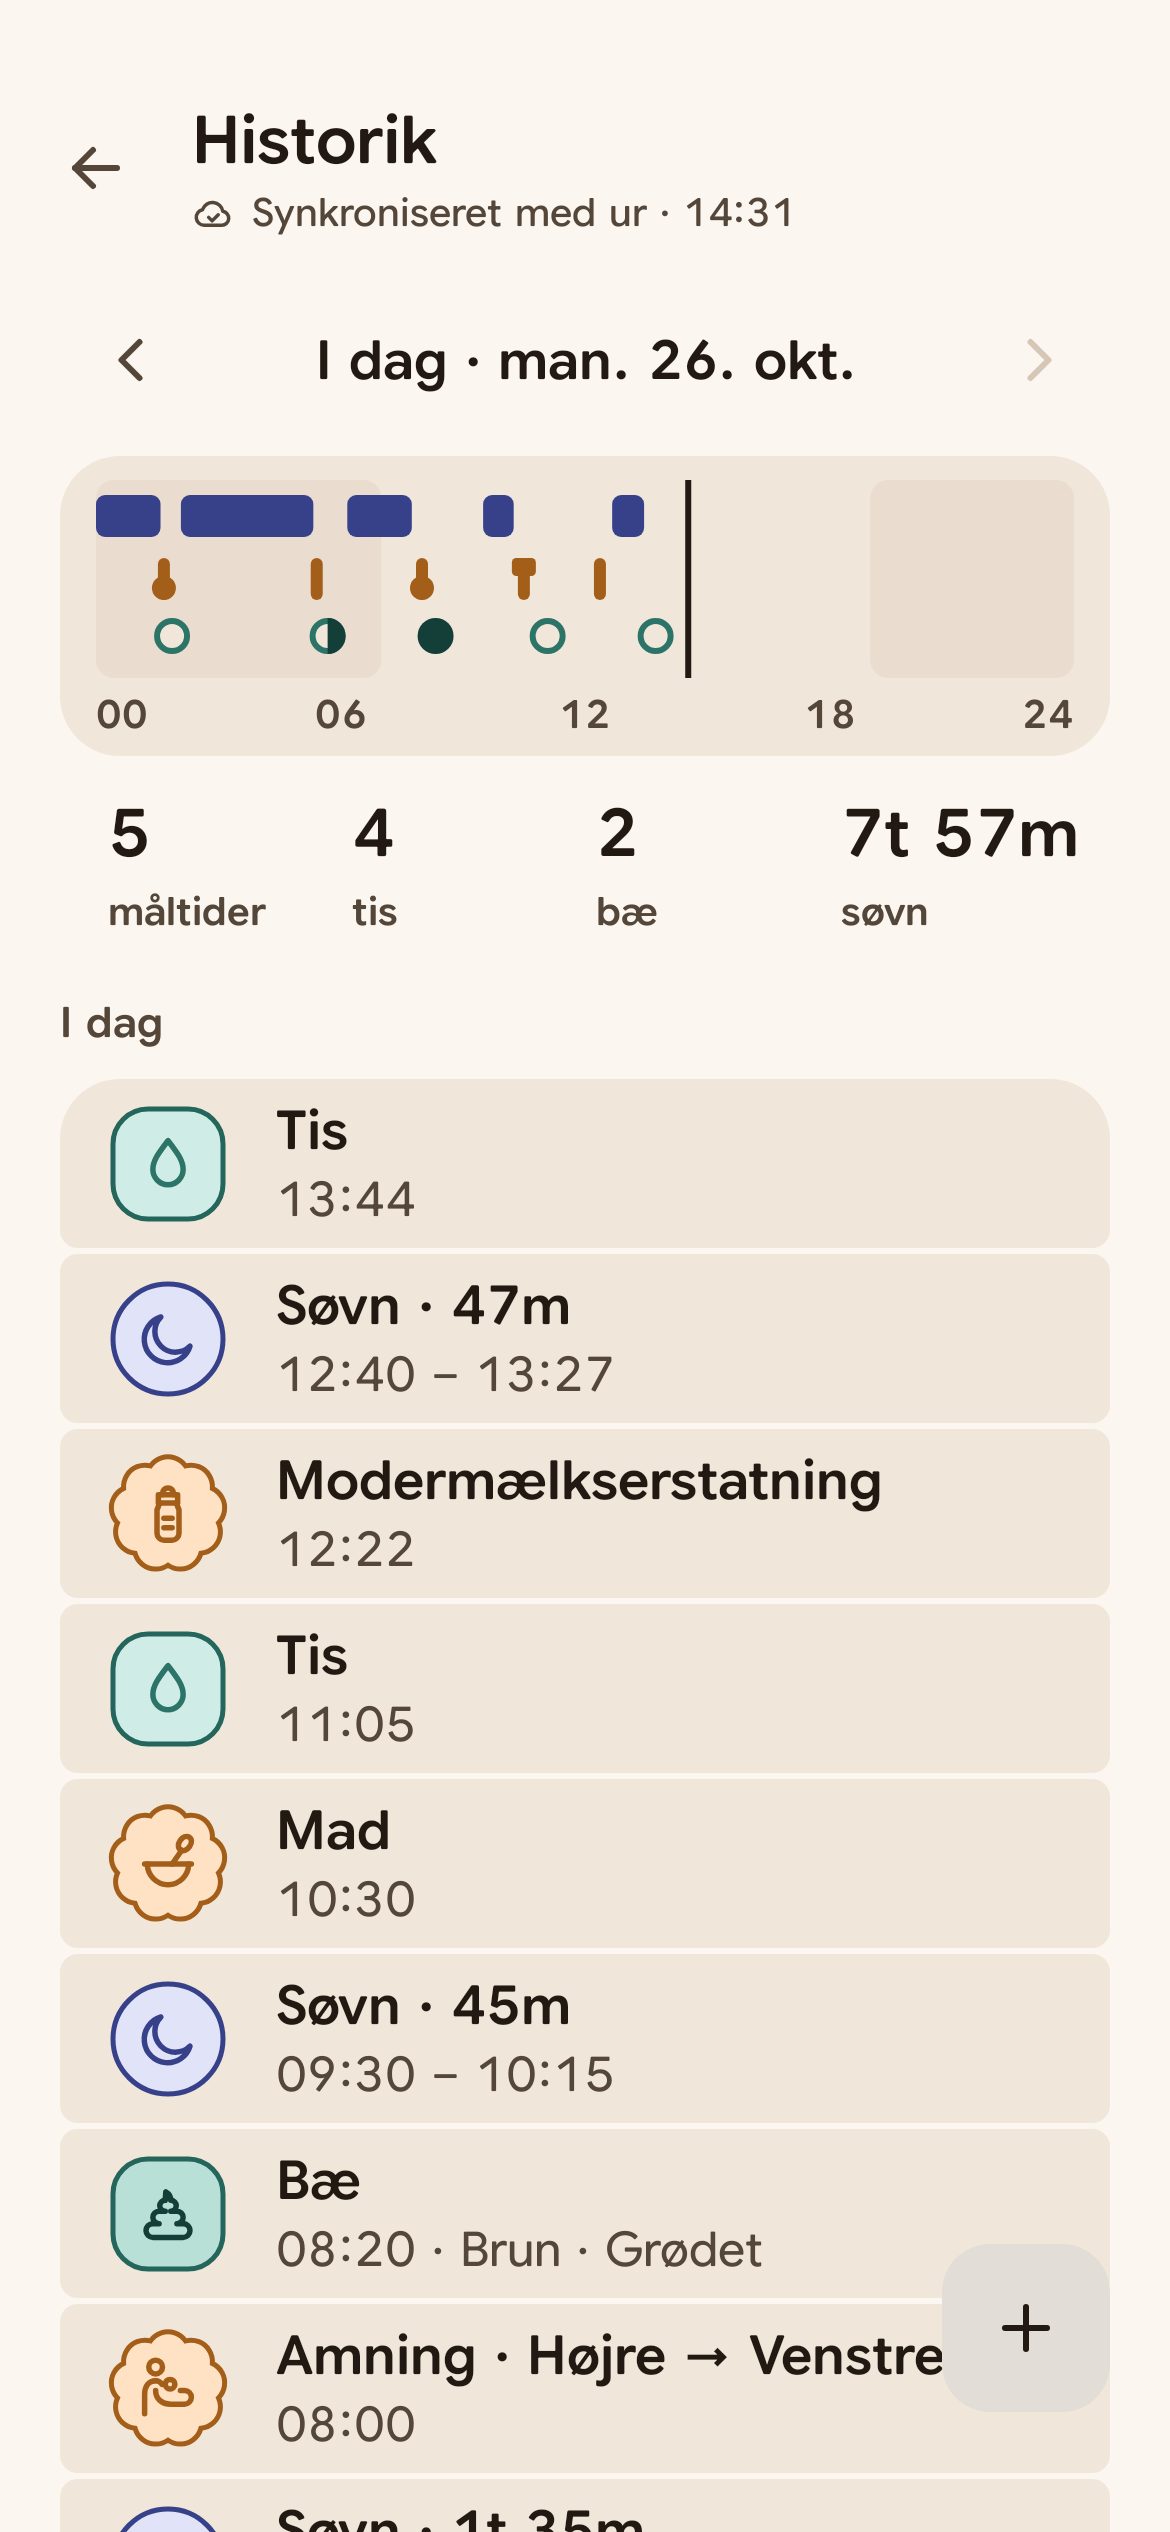
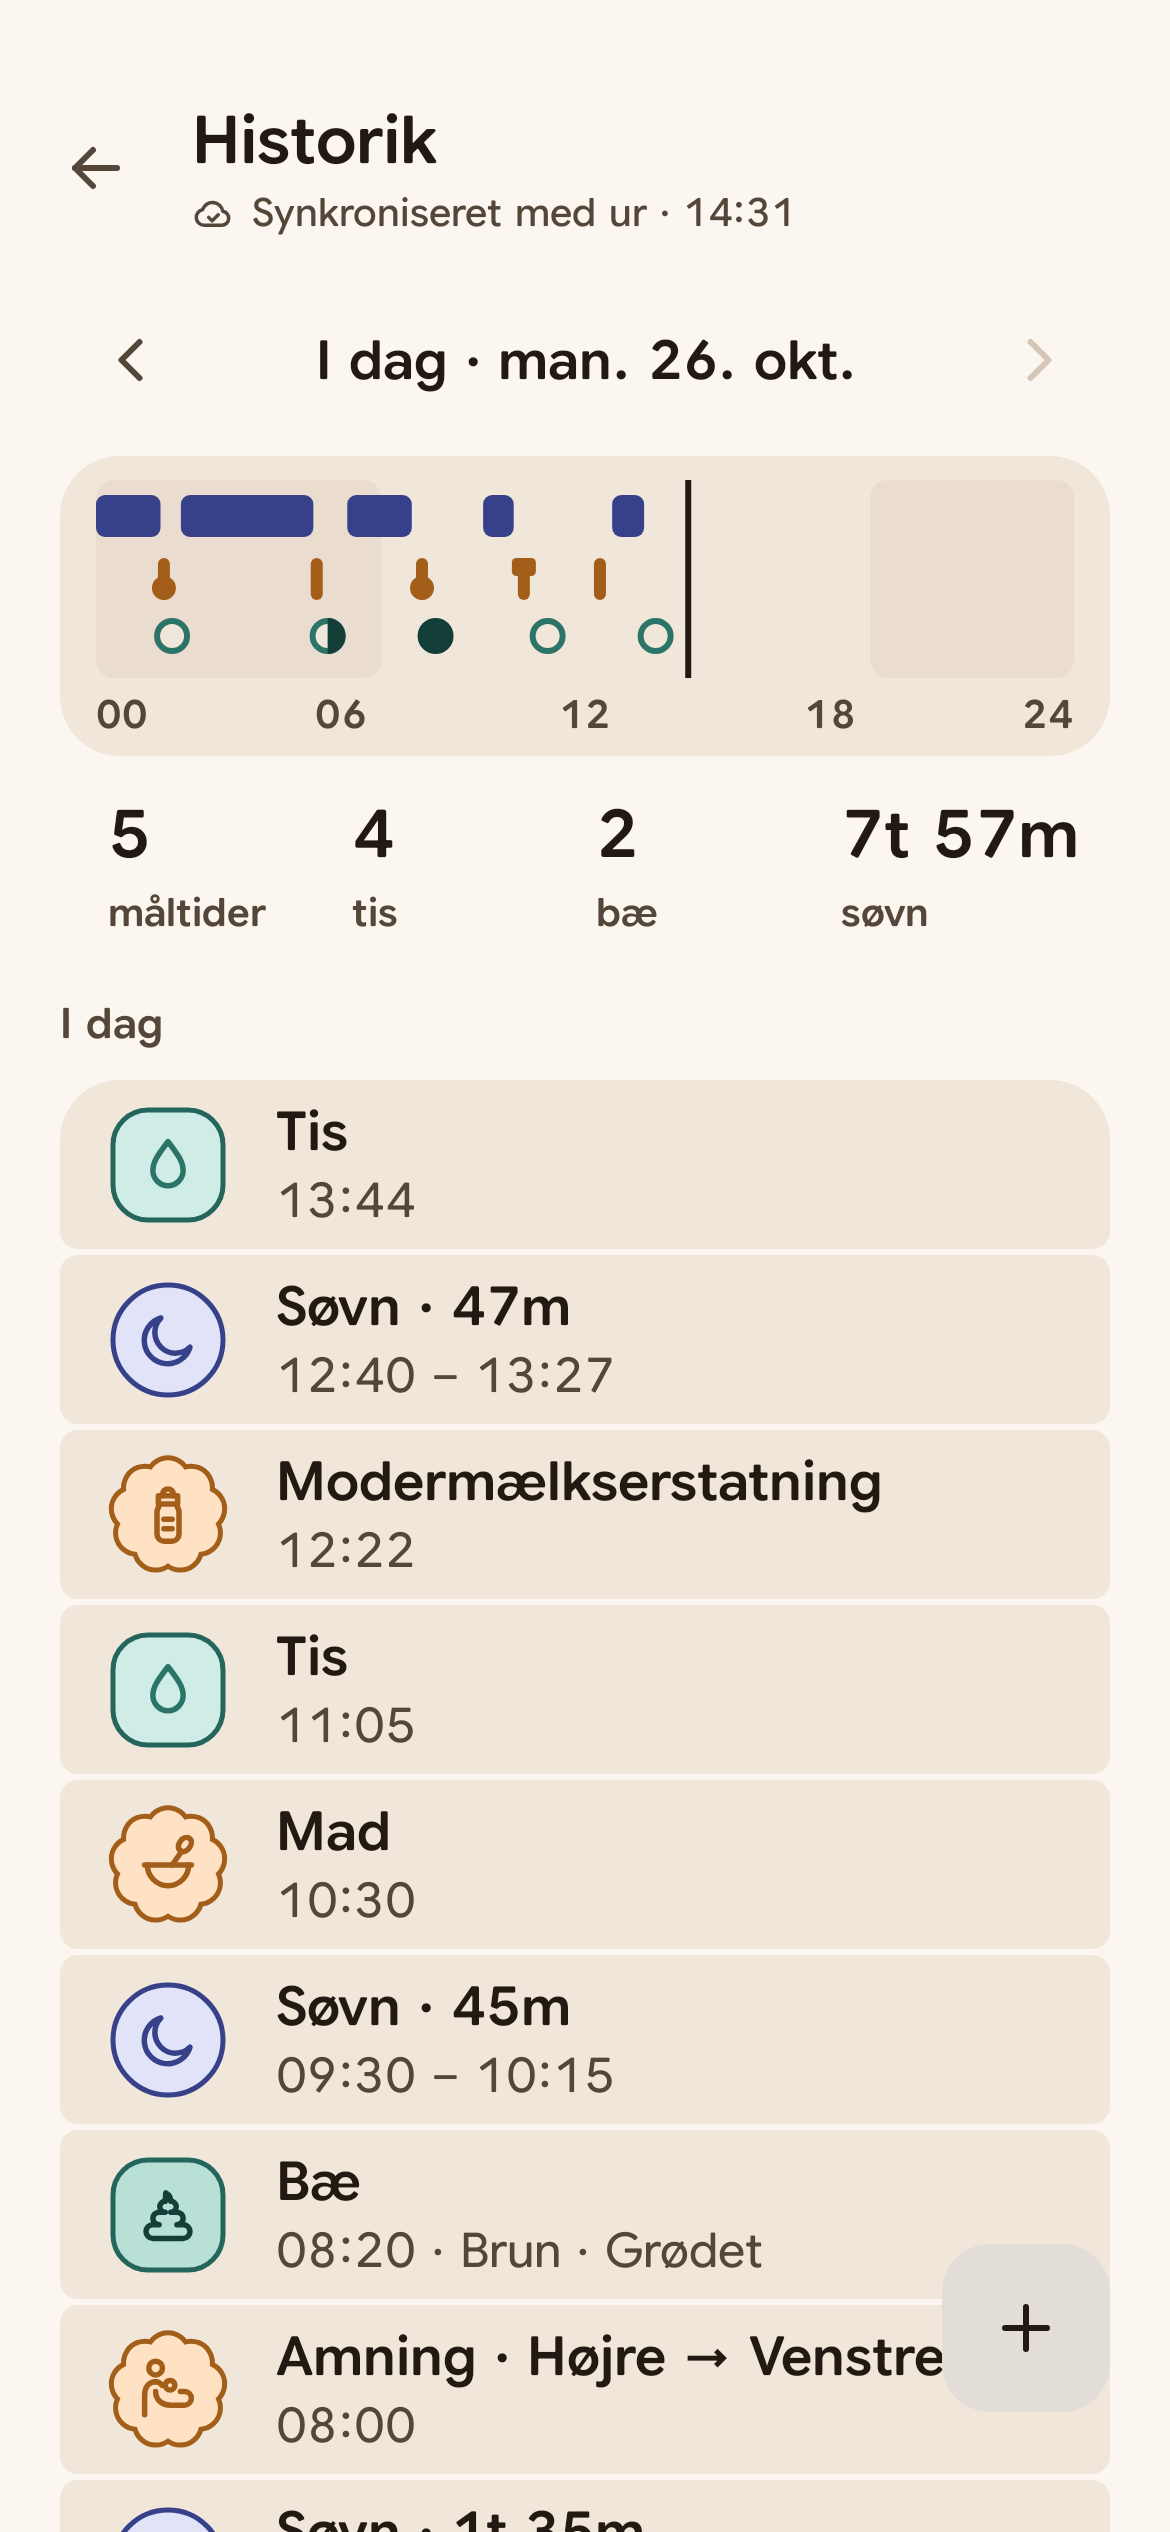
Fix the edit time picker crash and align the Today grid numbers
Tapping a time in the edit sheet crashed the app: the picker's display
mode was kept with rememberSaveable, which can't store
TimePickerDisplayMode. It is now saved as a Boolean, and the picker
opens on the clock dial with keyboard input one toggle away.

The Today grid shrank each number and caption on its own, so a long
value such as "47m" sat lower than the zeros next to it. Each row now
uses one size for all its cells; History's stats keep a fixed line
height. Adds a first-day Home sample and a time-picker review shot.

Claude-Session: https://claude.ai/code/session_01XDhkt28s4qxhgmUXYuk5QP

diff --git a/app/src/main/kotlin/com/ffmathy/pooparazzi/phone/ui/home/WhisperSlot.kt b/app/src/main/kotlin/com/ffmathy/pooparazzi/phone/ui/home/WhisperSlot.kt
@@ -159,11 +159,18 @@ private fun TodayGrid(today: DayCounts, lightsDown: Boolean, formatters: Formatt
         val columns = if (LocalDensity.current.fontScale >= TODAY_TWO_COLUMN_SCALE) 2 else 4
         Column(verticalArrangement = Arrangement.spacedBy(8.dp)) {
             numbers.zip(captions).chunked(columns).forEach { row ->
-                Row(horizontalArrangement = Arrangement.spacedBy(8.dp)) {
-                    row.forEach { (number, caption) ->
-                        Column(Modifier.weight(1f)) {
-                            FitText(number, MaterialTheme.typography.titleMedium.copy(color = numberColor), minSp = 12f)
-                            FitText(caption, MaterialTheme.typography.labelMedium.copy(color = colors.onSurfaceVariant), minSp = 9f)
+                // One size per line across the row, so the numbers (and the captions) share a baseline even when one
+                // of them ("7h 57m", "måltider") has to shrink to fit its column.
+                BoxWithConstraints(Modifier.fillMaxWidth()) {
+                    val cellWidth = (maxWidth - 8.dp * (columns - 1)) / columns
+                    val numberStyle = fitAll(row.map { it.first }, MaterialTheme.typography.titleMedium, cellWidth, minSp = 12f)
+                    val captionStyle = fitAll(row.map { it.second }, MaterialTheme.typography.labelMedium, cellWidth, minSp = 9f)
+                    Row(horizontalArrangement = Arrangement.spacedBy(8.dp)) {
+                        row.forEach { (number, caption) ->
+                            Column(Modifier.weight(1f)) {
+                                Text(number, style = numberStyle, color = numberColor, maxLines = 1, softWrap = false)
+                                Text(caption, style = captionStyle, color = colors.onSurfaceVariant, maxLines = 1, softWrap = false)
+                            }
                         }
                     }
                 }
@@ -172,16 +179,25 @@ private fun TodayGrid(today: DayCounts, lightsDown: Boolean, formatters: Formatt
     }
 }
 
-/** One line that shrinks (down to [minSp]) rather than clip or break a word. */
+/**
+ * [style] at the largest size (stepping down 0.5 sp, not below [minSp]) at which every one of [texts] fits [width] on
+ * one line, with the line height scaled along so the texts keep a common baseline.
+ */
 @Composable
-private fun FitText(text: String, style: TextStyle, minSp: Float) {
-    BasicText(
-        text,
-        style = style,
-        maxLines = 1,
-        softWrap = false,
-        autoSize = TextAutoSize.StepBased(minFontSize = minSp.sp, maxFontSize = style.fontSize, stepSize = 0.5.sp),
-    )
+private fun fitAll(texts: List<String>, style: TextStyle, width: androidx.compose.ui.unit.Dp, minSp: Float): TextStyle {
+    val measurer = rememberTextMeasurer()
+    val density = LocalDensity.current
+    val maxPx = with(density) { width.roundToPx() }.coerceAtLeast(0)
+    return remember(texts, style, maxPx, minSp, density) {
+        var size = style.fontSize.value
+        fun fits(sp: Float) = texts.all { text ->
+            measurer.measure(text, style.copy(fontSize = sp.sp), maxLines = 1, softWrap = false, density = density).size.width <= maxPx
+        }
+        while (size > minSp && !fits(size)) size = (size - 0.5f).coerceAtLeast(minSp)
+        val scale = size / style.fontSize.value
+        if (scale >= 1f) style
+        else style.copy(fontSize = size.sp, lineHeight = if (style.lineHeight.isSp) (style.lineHeight.value * scale).sp else style.lineHeight)
+    }
 }
 
 /** From this font scale the Today grid is 2 × 2. */

diff --git a/app/src/main/kotlin/com/ffmathy/pooparazzi/phone/ui/edit/EditTimeBlock.kt b/app/src/main/kotlin/com/ffmathy/pooparazzi/phone/ui/edit/EditTimeBlock.kt
@@ -334,7 +334,10 @@ internal fun OutlinePill(
     }
 }
 
-/** The M3 time picker in keyboard input mode, with the dial one toggle away (DESIGN_SPEC §10.4). */
+/**
+ * The M3 time picker, opening on the clock dial with keyboard input one toggle away. Keyboard-first (DESIGN_SPEC
+ * §10.4) read as "some picker" with two bare fields and a keyboard on a real phone, so the dial is the default now.
+ */
 @OptIn(ExperimentalMaterial3Api::class)
 @Composable
 private fun TimeDialog(
@@ -346,7 +349,10 @@ private fun TimeDialog(
     onDismiss: () -> Unit,
 ) {
     val state = rememberTimePickerState(initialHour = hour, initialMinute = minute, is24Hour = is24Hour)
-    var mode by rememberSaveable { mutableStateOf(TimePickerDisplayMode.Input) }
+    // TimePickerDisplayMode can't go into a Bundle, so save "keyboard input?" as a Boolean (saving the mode itself
+    // crashed the app the moment the dialog opened).
+    var keyboard by rememberSaveable { mutableStateOf(false) }
+    val mode = if (keyboard) TimePickerDisplayMode.Input else TimePickerDisplayMode.Picker
     TimePickerDialog(
         onDismissRequest = onDismiss,
         confirmButton = { TextButton(onClick = { onConfirm(state.hour, state.minute) }) { Text(stringResource(R.string.action_ok)) } },
@@ -354,9 +360,7 @@ private fun TimeDialog(
         dismissButton = { TextButton(onClick = onDismiss) { Text(stringResource(CoreR.string.action_cancel)) } },
         modeToggleButton = {
             TimePickerDialogDefaults.DisplayModeToggle(
-                onDisplayModeChange = {
-                    mode = if (mode == TimePickerDisplayMode.Input) TimePickerDisplayMode.Picker else TimePickerDisplayMode.Input
-                },
+                onDisplayModeChange = { keyboard = !keyboard },
                 displayMode = mode,
             )
         },

diff --git a/app/src/test/kotlin/com/ffmathy/pooparazzi/phone/HistoryEditSettingsScreenshots.kt b/app/src/test/kotlin/com/ffmathy/pooparazzi/phone/HistoryEditSettingsScreenshots.kt
@@ -8,6 +8,10 @@ import androidx.compose.runtime.Composable
 import androidx.compose.ui.test.junit4.v2.createComposeRule
 import androidx.compose.ui.test.onNodeWithTag
 import androidx.compose.ui.test.onRoot
+import androidx.compose.ui.semantics.SemanticsActions
+import androidx.compose.ui.semantics.getOrNull
+import androidx.compose.ui.test.SemanticsMatcher
+import androidx.compose.ui.test.performSemanticsAction
 import androidx.compose.ui.test.performScrollTo
 import androidx.compose.ui.unit.dp
 import androidx.test.core.app.ApplicationProvider
@@ -76,6 +80,25 @@ abstract class HistoryEditSettingsScreenshots(private val language: String) {
     @Test fun largeFontHistory() {
         RuntimeEnvironment.setFontScale(2f)
         screen("font200-history", night = true, tour = false) { History(HistorySamples.today()) }
+    }
+
+    /** Tapping a time field opens the M3 time picker on its clock dial (written under build/ for review). */
+    @OptIn(ExperimentalRoborazziApi::class)
+    @Test fun editTimePicker() {
+        compose.setContent {
+            NightLightTheme(night = true) {
+                Box {
+                    History(HistorySamples.today())
+                    EditSheet(EditSamples.sleepNudged(), EditActions.None, windowInsets = ReferenceInsets)
+                }
+            }
+        }
+        compose.waitForIdle()
+        val changeTime = ApplicationProvider.getApplicationContext<Application>().getString(R.string.edit_change_time)
+        compose.onAllNodes(SemanticsMatcher("click label") { it.config.getOrNull(SemanticsActions.OnClick)?.label == changeTime })[0]
+            .performSemanticsAction(SemanticsActions.OnClick)
+        compose.waitForIdle()
+        captureScreenRoboImage(path("edit-time-picker", tour = false))
     }
 
     @Test fun largeFontEdit() {

diff --git a/app/src/main/kotlin/com/ffmathy/pooparazzi/phone/ui/history/HistoryScreen.kt b/app/src/main/kotlin/com/ffmathy/pooparazzi/phone/ui/history/HistoryScreen.kt
@@ -19,6 +19,7 @@ import androidx.compose.foundation.layout.WindowInsets
 import androidx.compose.foundation.layout.WindowInsetsSides
 import androidx.compose.foundation.layout.fillMaxSize
 import androidx.compose.foundation.layout.fillMaxWidth
+import androidx.compose.foundation.layout.height
 import androidx.compose.foundation.layout.heightIn
 import androidx.compose.foundation.layout.only
 import androidx.compose.foundation.layout.padding
@@ -318,8 +319,9 @@ private fun Stat(number: String, caption: String, spokenNumber: String?, modifie
     ) {
         // "7h 57m" is wider than its quarter of the row: like the mockup's grid, it may run into the 16 dp gutter, and
         // shrinks rather than leave the screen when even that is not enough (a 360 dp phone, a larger font).
-        BoxWithConstraints {
-            val style = MaterialTheme.typography.titleLarge
+        // The box keeps the full line height when the number shrinks, so all four numbers sit on the same line.
+        val style = MaterialTheme.typography.titleLarge
+        BoxWithConstraints(Modifier.height(with(LocalDensity.current) { style.lineHeight.toDp() }), contentAlignment = Alignment.BottomStart) {
             BasicText(
                 number,
                 style = style.copy(color = colors.onSurface),

diff --git a/app/src/main/kotlin/com/ffmathy/pooparazzi/phone/ui/preview/HomeSamples.kt b/app/src/main/kotlin/com/ffmathy/pooparazzi/phone/ui/preview/HomeSamples.kt
@@ -34,6 +34,10 @@ object HomeSamples {
     fun asleep(): HomeUiState =
         build(SampleData.scenarioAt0312(zone), SampleData.NOW_0312, sync = SyncStatus.Synced(SampleData.SYNCED_0311))
 
+    /** A first day: only a sleep running since 13:45, at 14:32 (no feeds or diapers yet): Today 0 · 0 · 0 · 47m. */
+    fun firstSleep(): HomeUiState =
+        build(listOf(Entry.sleep(SampleData.NOW_1432 - 47 * 60_000L, null, id = "sample-first-sleep")), SampleData.NOW_1432)
+
     /**
      * 14:50, a breast feed (Left → Right) just logged for 14:32 with the −15m chip from the Feed sheet opened at 14:47:
      * "Last fed 18m ago · 14:32 · Breast" and the undo card "Breast logged · Left → Right".

diff --git a/app/src/test/kotlin/com/ffmathy/pooparazzi/phone/DeviceFitScreenshots.kt b/app/src/test/kotlin/com/ffmathy/pooparazzi/phone/DeviceFitScreenshots.kt
@@ -57,6 +57,9 @@ abstract class DeviceFitScreenshots(private val config: String, private val font
 
     @Test fun homeAsleep() = home("02-home-asleep", night = true, HomeSamples.asleep())
 
+    /** A first day with only a running sleep: the Today grid shows 0 · 0 · 0 · 47m (numbers on one baseline). */
+    @Test fun homeFirstSleep() = home("02b-home-first-sleep", night = true, HomeSamples.firstSleep())
+
     @Test fun homeAdjustStart() = card("03-home-adjust-start", HomeSamples.adjustingStart())
 
     @Test fun homeUndoCard() = card("04-home-undo-card", HomeSamples.justLogged())
